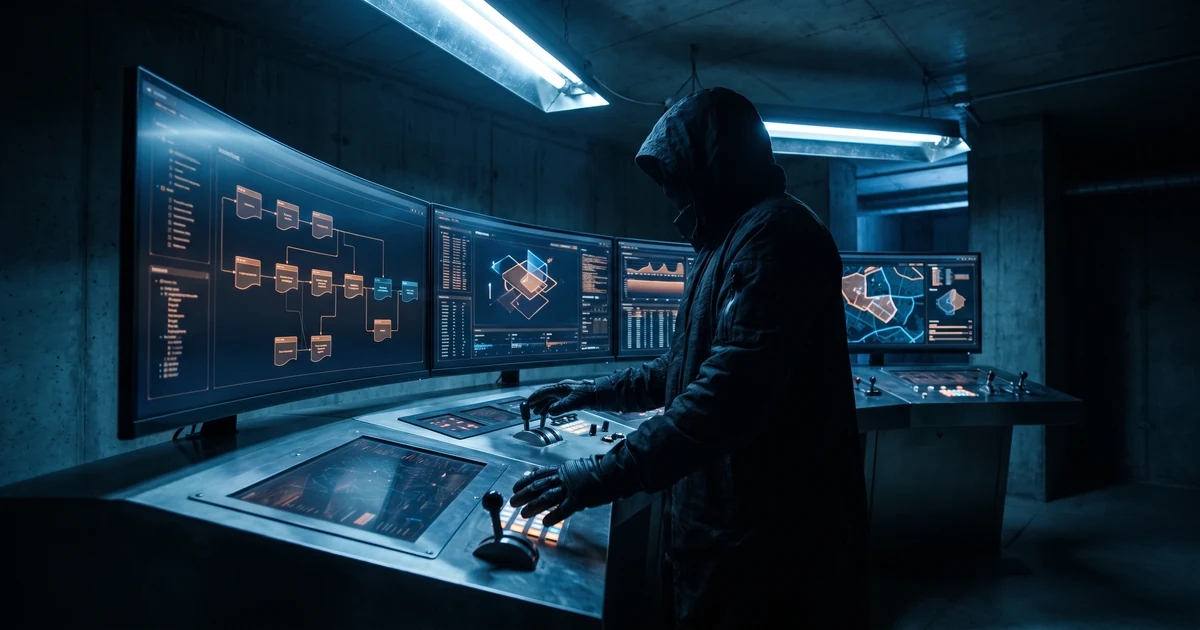
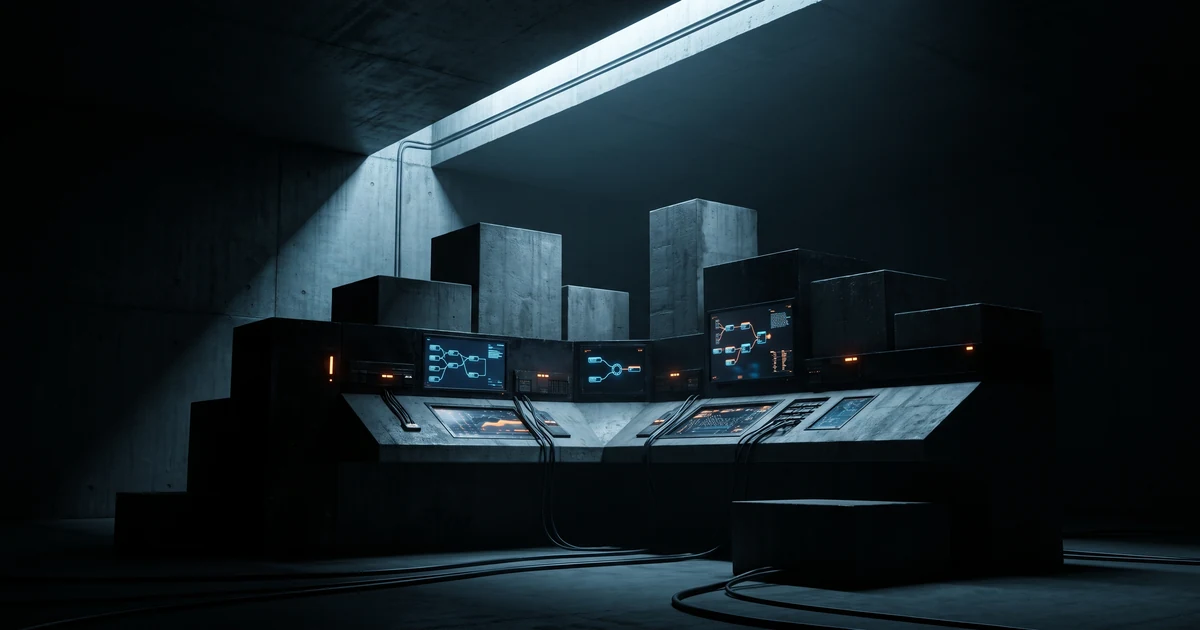
Edit: new opener + new abstract hero image (no humans)

diff --git a/src/drafts/8ea952db.md b/src/drafts/8ea952db.md
@@ -1,7 +1,7 @@
 ---
 title: "The Expert's New Discipline"
 date: 2026-07-11
-excerpt: "The skill that matters now isn't prompting. It's moving from execution to direction — and this generation of experts are the pioneers of that shift."
+excerpt: "We see a shift in what experts need to adopt as part of their skillset. I see experts moving from execution to direction — and this generation are the pioneers of that shift."
 featuredImage: /images/posts/experts-new-discipline.webp
 permalink: /drafts/8ea952db/
 tags: ["ai", "agentic-engineering", "leadership", "agents"]
@@ -12,7 +12,7 @@ tldr:
   - "Humans lead. Agents execute. That's the whole job now."
 ---
 
-I think something has shifted in what experts need to adopt as part of their skillset, and it's not prompting per se. It's moving from execution to direction.
+In today's AI-accelerated world we see a shift in what experts need to adopt as part of their skillset. I see experts moving from execution to direction.
 
 This is the first generation of experts who need to navigate this transition. The current ones — the ones figuring it out right now — are the pioneers of the shift. A new landscape of expert work, and no playbook exists yet.
 